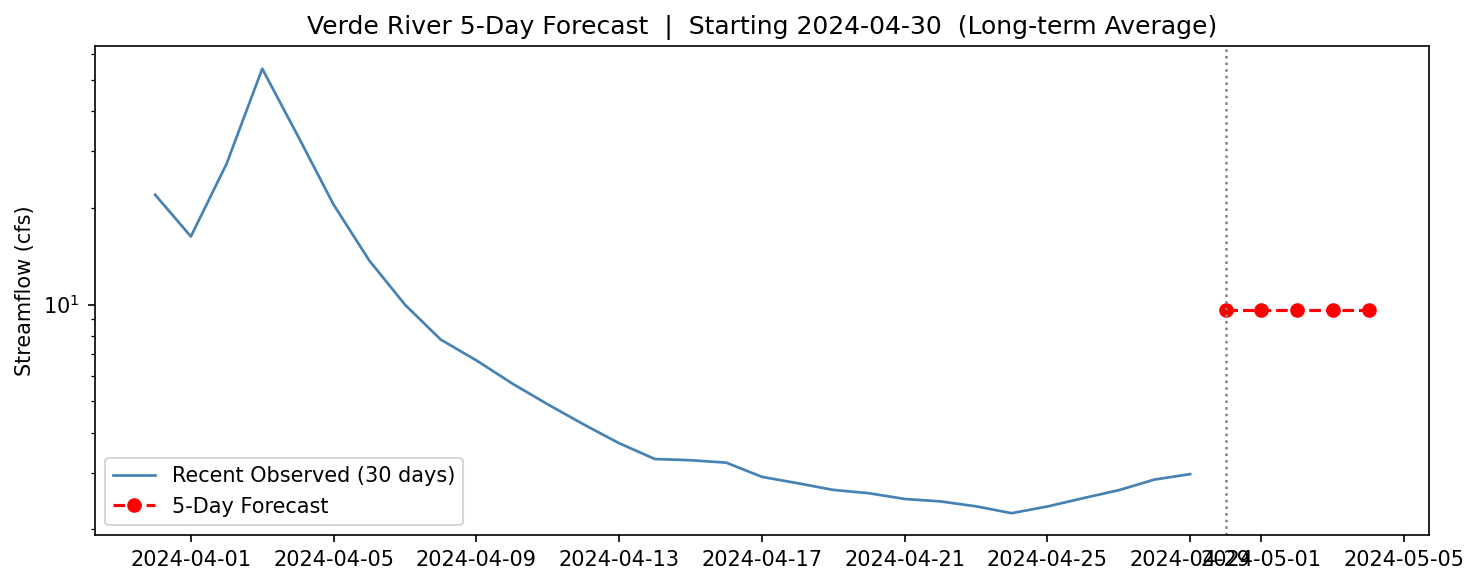
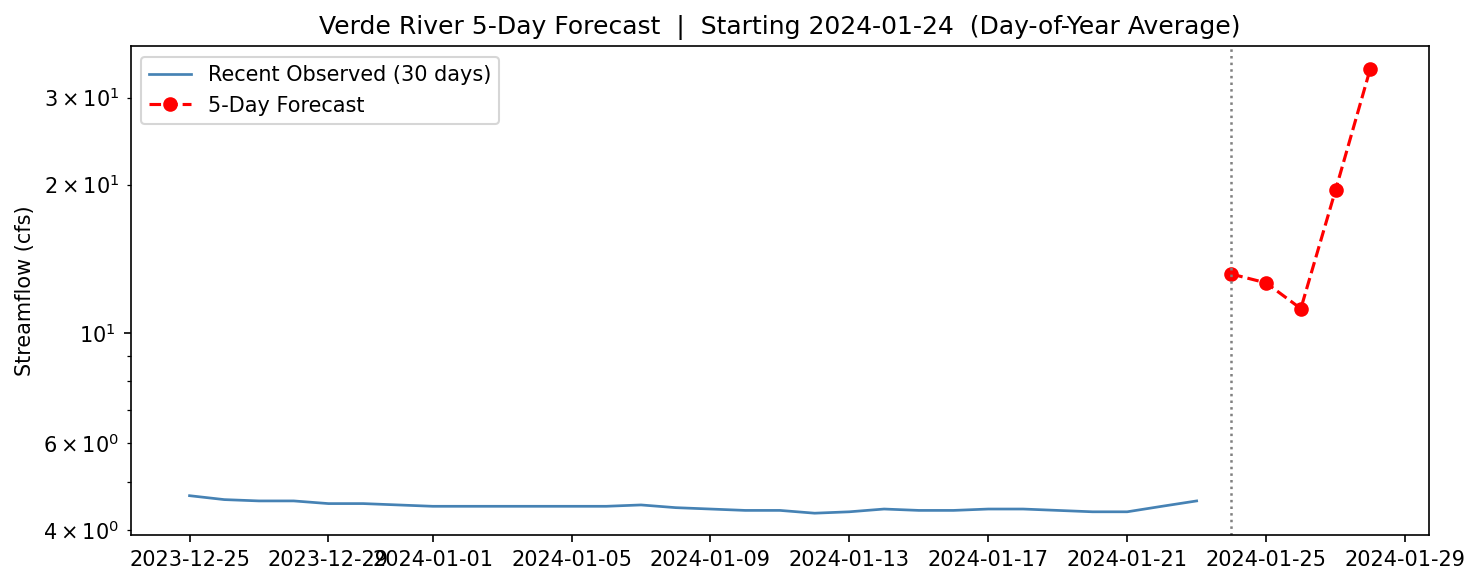
homework7updates

diff --git a/train_model.py b/train_model.py
@@ -19,6 +19,7 @@ from forecast_functions import (
     plot_validation,
     save_model,
     load_model,
+    fit_doy_model
 )
 
 parser = argparse.ArgumentParser()
@@ -30,7 +31,7 @@ parser.add_argument('--train-start', default='1990-01-01')
 parser.add_argument('--train-end',   default='2022-12-31')
 parser.add_argument('--test-start',  default='2023-01-01')
 parser.add_argument('--test-end',    default='2024-12-31')
-parser.add_argument('--model',       default='longterm_avg', choices=['longterm_avg', 'monthly_avg'])
+parser.add_argument('--model',       default='longterm_avg', choices=['longterm_avg', 'monthly_avg', 'doy'])
 parser.add_argument('--refit',       default='True')
 parser.add_argument('--validate',    default='True')
 args = parser.parse_args()
@@ -81,3 +82,41 @@ if args.model == 'longterm_avg':
         )
 
 print("\nTraining complete.")
+
+# ── Day of the year model ───────────────────────────────────────────────────
+if args.model == 'doy':
+    print("\n--- Step 2: Fit DOY model ---")
+
+    if REFIT_MODEL or not os.path.exists('saved_model.pkl'):
+        doy_means = fit_doy_model(train)
+        save_model(doy_means)
+    else:
+        doy_means = load_model()
+
+    if RUN_VALIDATION:
+        print("\n--- Step 3: Validate DOY model ---")
+
+        train_fitted = pd.Series(
+            train.index.dayofyear.map(doy_means),
+            index=train.index
+        )
+
+        forecast_series = pd.Series(
+            test.index.dayofyear.map(doy_means),
+            index=test.index
+        )
+
+        metrics = compute_metrics(test['streamflow_cfs'].values, forecast_series.values)
+
+        print("\nValidation metrics:")
+        for name, val in metrics.items():
+            print(f"{name}: {val:.4f}")
+
+        plot_validation(
+            train['streamflow_cfs'],
+            test['streamflow_cfs'],
+            forecast_series,
+            metrics,
+            'Day-of-Year Average',
+            train_forecast_cfs=train_fitted
+        )

diff --git a/generate_forecast.py b/generate_forecast.py
@@ -14,6 +14,7 @@ import hf_hydrodata
 from forecast_functions import (
     get_recent_data,
     make_5day_forecast_longterm,
+    make_5day_forecast_doy,
     load_model,
 )
 
@@ -23,7 +24,7 @@ parser.add_argument('--pin',           required=True)
 parser.add_argument('--gauge-id',      default='09506000')
 parser.add_argument('--ar-order',      type=int, default=7)
 parser.add_argument('--forecast-date', default='2024-04-30')
-parser.add_argument('--model',         default='longterm_avg', choices=['longterm_avg'])
+parser.add_argument('--model',         default='longterm_avg', choices=['longterm_avg', 'doy'])
 args = parser.parse_args()
 
 forecast_date_ts = pd.Timestamp(args.forecast_date)
@@ -46,6 +47,15 @@ if args.model == 'longterm_avg':
     forecast_df = make_5day_forecast_longterm(mean_flow, args.forecast_date)
     model_label = 'Long-term Average'
 
+# ── Day of the year average model ────────────────────────────────────────────────────
+if args.model == 'doy':
+    print("\n--- Step 2: Load DOY model ---")
+    doy_means = load_model()
+
+    print("\n--- Step 3: Generate 5-day DOY forecast ---")
+    forecast_df = make_5day_forecast_doy(doy_means, args.forecast_date)
+    model_label = 'Day-of-Year Average'
+
 print(f"\n  5-Day Streamflow Forecast — Verde River ({model_label})")
 print(f"  Starting: {forecast_date_ts.date()}\n")
 print(f"  {'Date':<14}  Forecast (cfs)")
@@ -54,6 +64,7 @@ for date, row in forecast_df.iterrows():
     print(f"  {str(date.date()):<14}  {row['Forecast_cfs']:.1f}")
 
 recent_cfs = recent['streamflow_cfs'].iloc[-30:]
+
 
 fig, ax = plt.subplots(figsize=(10, 4))
 ax.plot(recent_cfs.index, recent_cfs.values,
@@ -69,3 +80,4 @@ plt.tight_layout()
 plt.savefig('forecast_plot.png', dpi=150, bbox_inches='tight')
 print("  Plot saved to forecast_plot.png")
 plt.show()
+

diff --git a/forecast_functions.py b/forecast_functions.py
@@ -178,3 +178,26 @@ def load_model(path='saved_model.pkl'):
         model = pickle.load(f)
     print(f"  Model loaded from {path}")
     return model
+
+##Day of the year model (January 24th)
+
+def fit_doy_model(train_df):
+    """
+    Fit a day-of-year average model.
+    """
+    doy_means = train_df.groupby(train_df.index.dayofyear)['streamflow_cfs'].mean()
+    return doy_means
+
+
+def make_5day_forecast_doy(doy_means, forecast_date, n_days=5):
+    """
+    Generate a 5-day forecast using day-of-year averages.
+    """
+    dates = pd.date_range(start=forecast_date, periods=n_days, freq='D')
+    forecasts = []
+
+    for date in dates:
+        doy = min(date.dayofyear, 365)
+        forecasts.append(doy_means.loc[doy])
+
+    return pd.DataFrame({'Forecast_cfs': forecasts}, index=dates)
